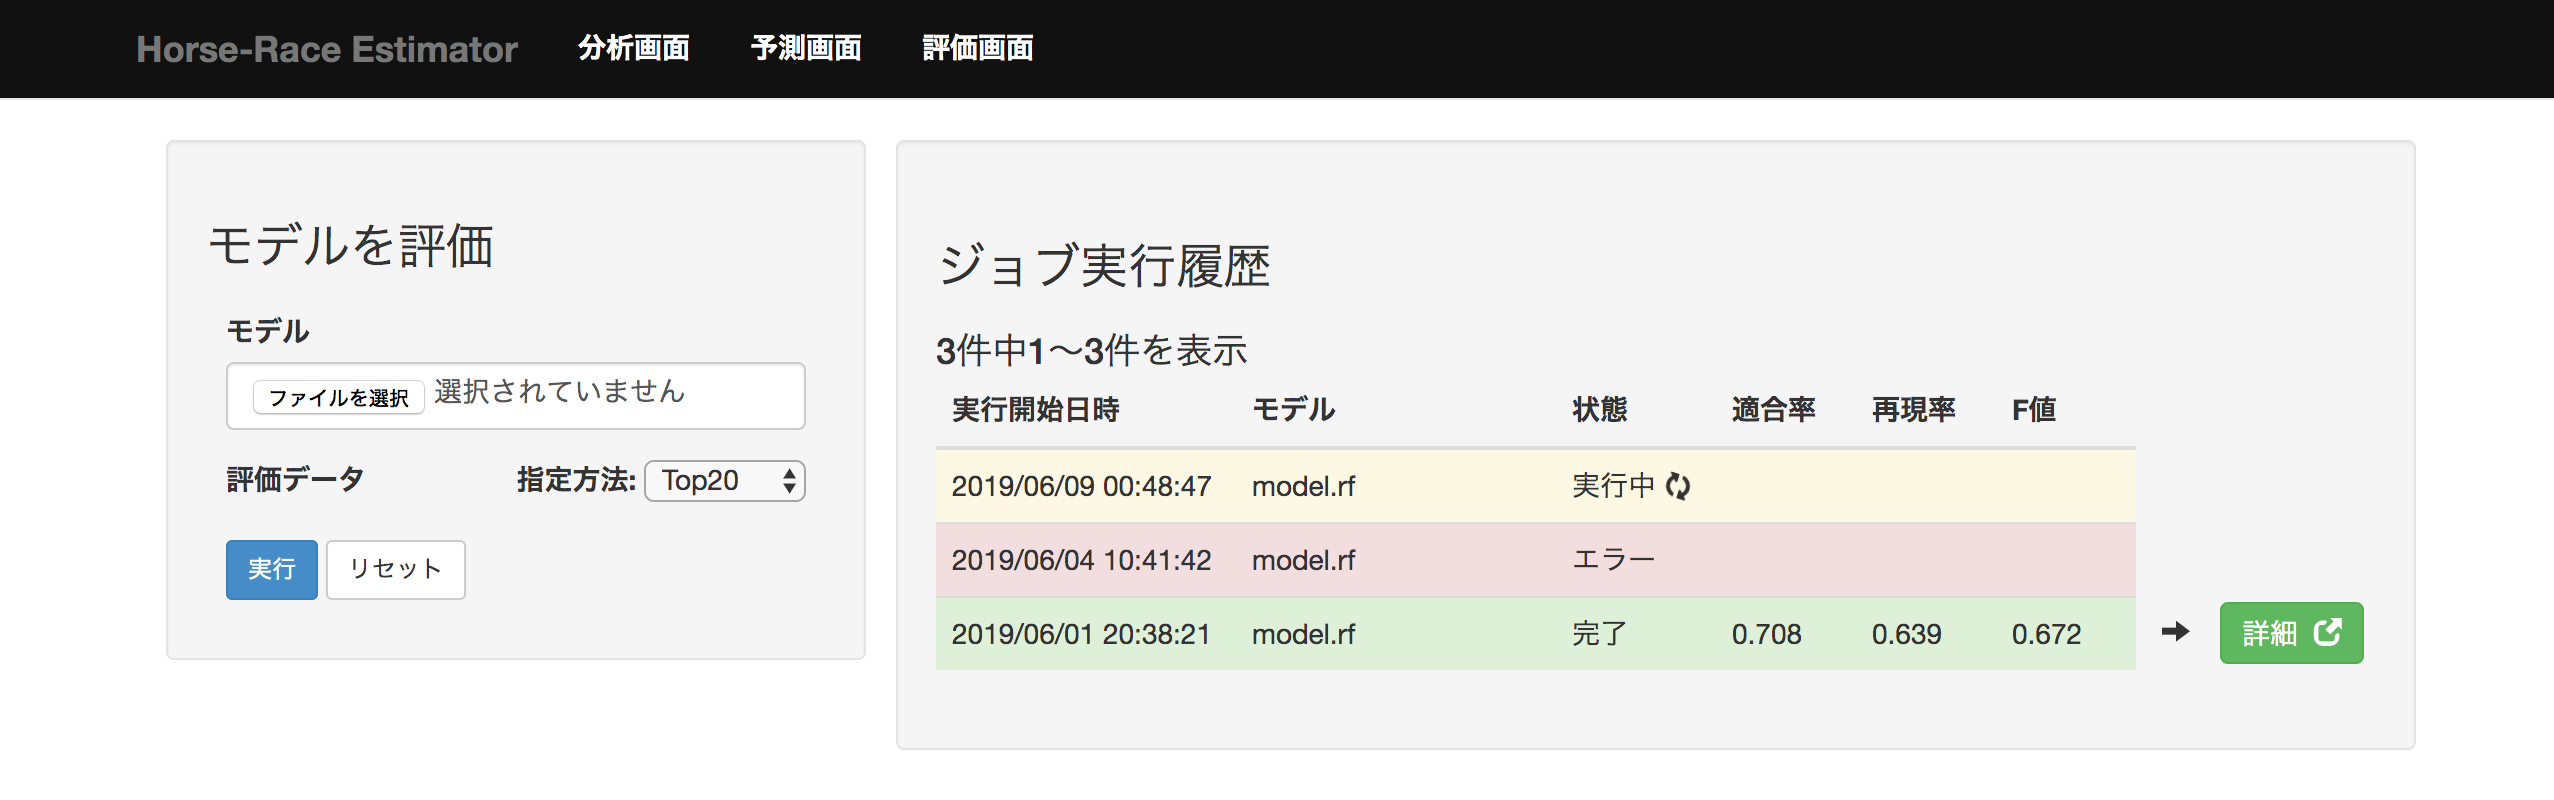
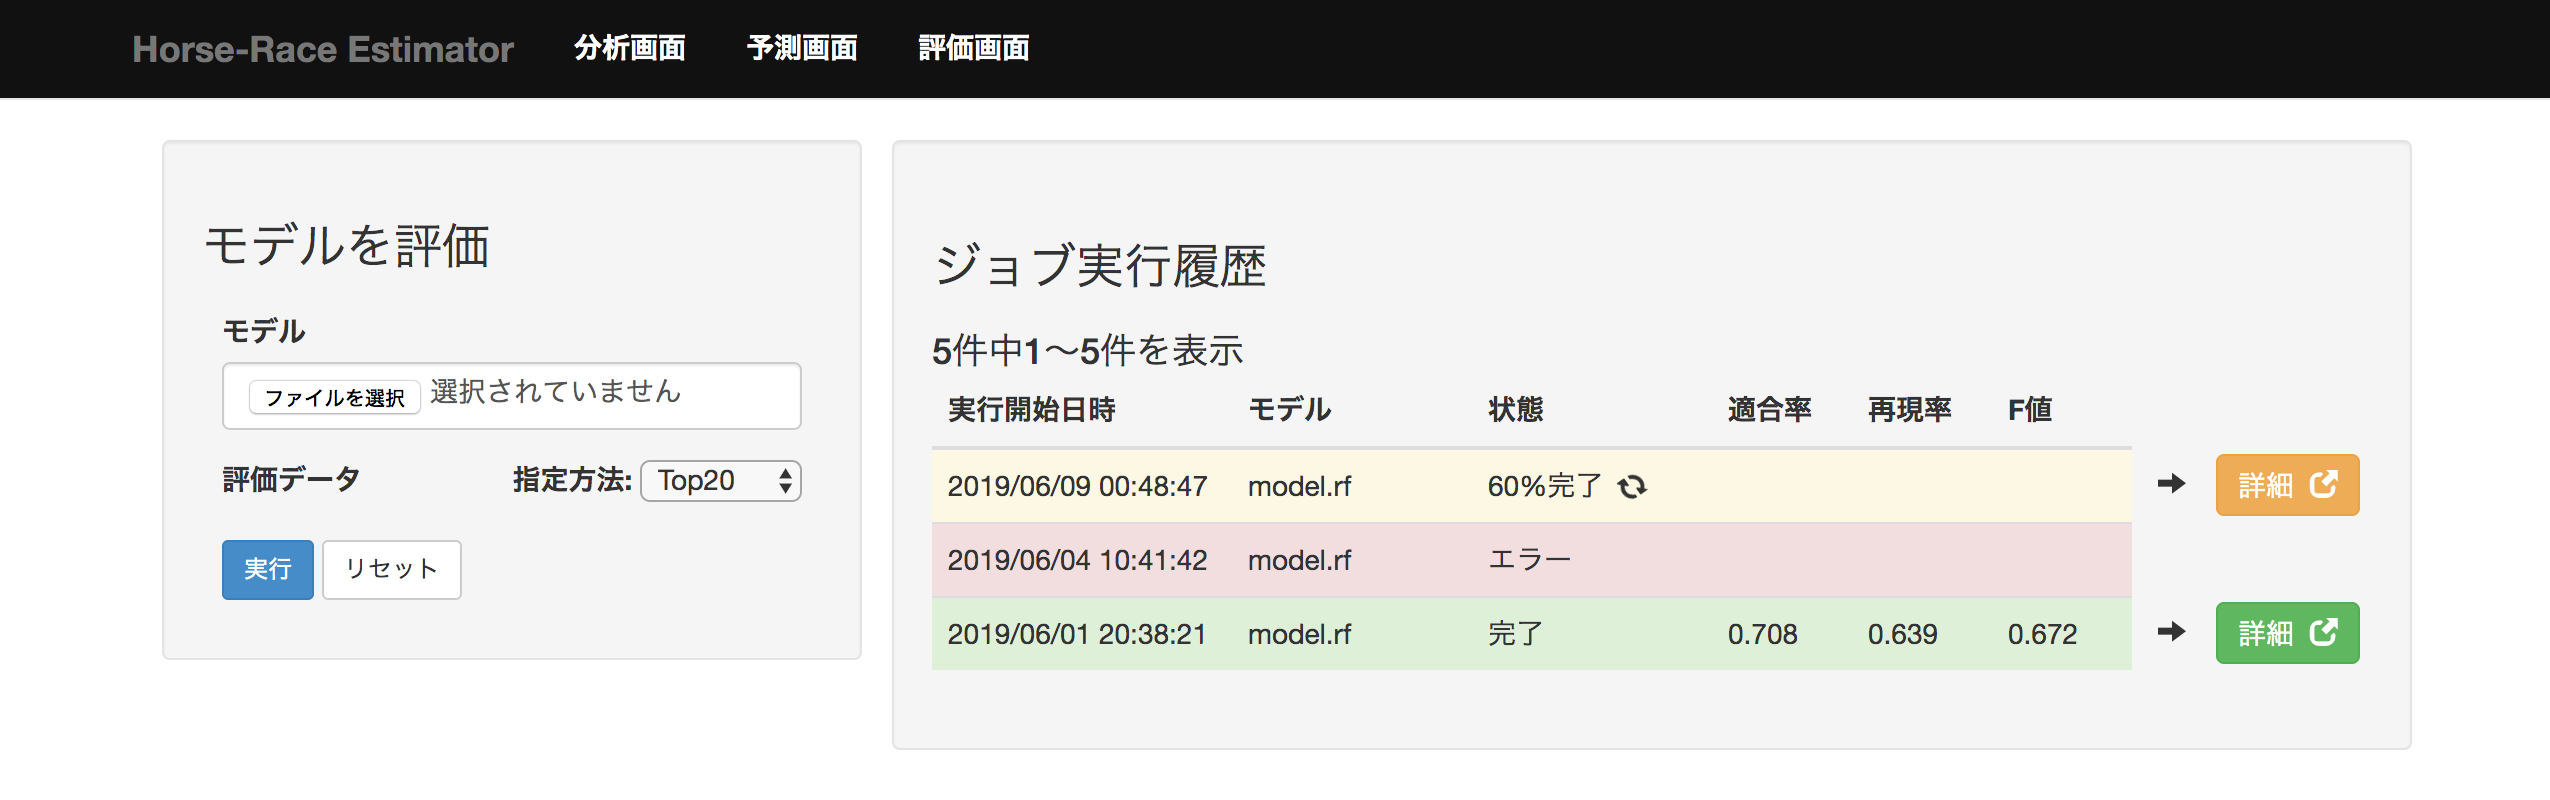
update external spec

diff --git a/horse-race_estimator/alterf/external.rst b/horse-race_estimator/alterf/external.rst
@@ -101,6 +101,7 @@
    :header: 属性名,型,意味,備考
    :widths: 20,10,30,40
 
+   レースID,string,評価したレースのID, :ref:`den-ext-res-race` 参照
    レース名,string,評価したレース名前,
    URL,string,評価したレースのURL,- httpsスキームのURL
    予測結果,array[ :ref:`alt-ext-res-pre-result` ],予測結果の配列,
@@ -232,7 +233,6 @@
       - Top20: 外部サイトから人気のレース上位20件を利用する
       - ファイル: レースIDが改行区切りで記載されたファイルを指定する
 
-        - レースIDは :ref:`den-ext-res-race` を参照
         - 選択するとセレクトボックスの下にファイル入力フォームが表示される
 
       - 直接入力: レースIDをフォームに改行区切りで入力する
@@ -248,8 +248,7 @@
   - 25ジョブごとにページングされている
   - 実行開始日時の降順でソートされている
   - 実行中のジョブは黄色，完了したジョブの行は緑色，エラーになったジョブは赤色で表示される
-  - 実行中のジョブは黄色，完了したジョブの行は緑色で表示される
-  - 実行中のジョブは状態列に進捗をパーセンテージで表示する
+  - 実行中のジョブは状態列に進捗がパーセンテージで表示される
   - 進行中，完了のジョブは行の右側に :ref:`alt-ext-ui-eva-result` を表示するためのボタンが表示される
 
     - :ref:`alt-ext-ui-eva-result` は別タブに表示される
